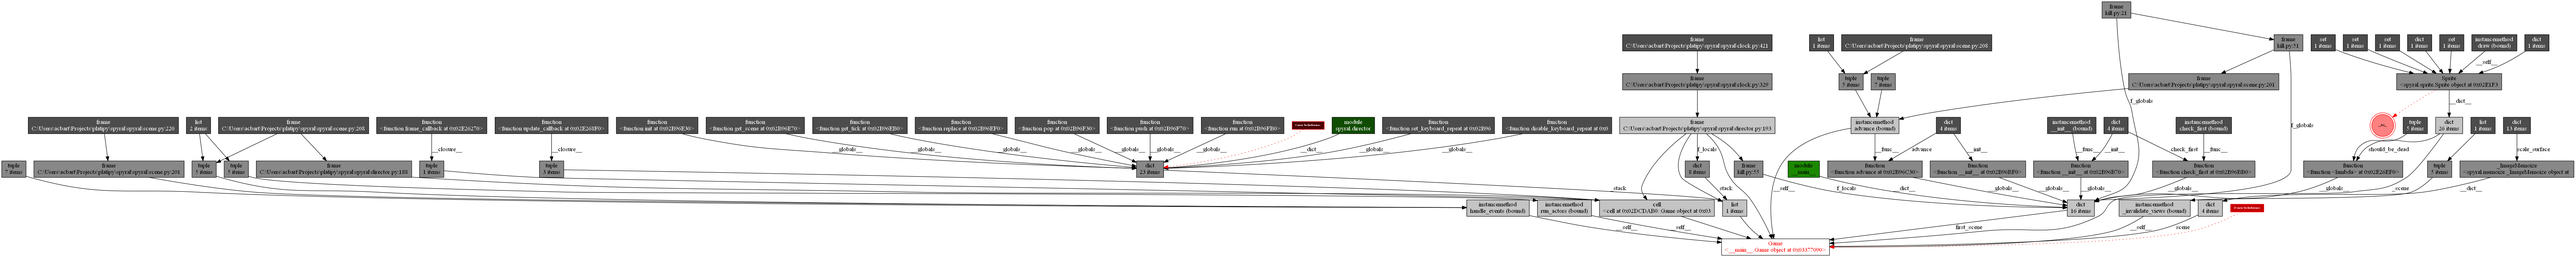
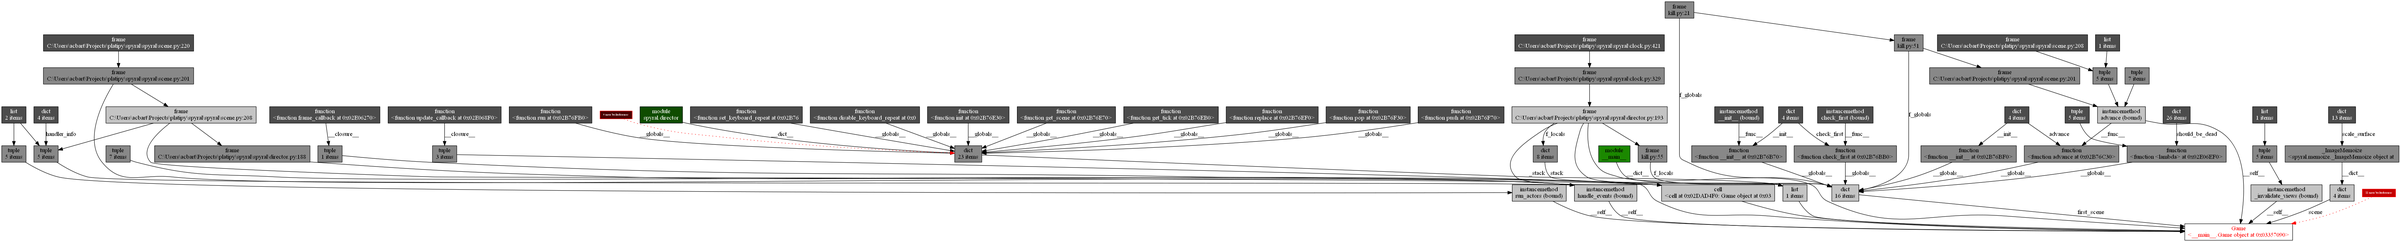
Sprites and Views no longer hold strong refs to their parents.

diff --git a/spyral/sprite.py b/spyral/sprite.py
@@ -78,8 +78,8 @@ class Sprite(object):
         self._offset = spyral.Vec2D(0, 0)
         self._scale = spyral.Vec2D(1.0, 1.0)
         self._scaled_image = None
-        self._view = (view)
-        self._scene = (view.scene)
+        self._view = _wref(view)
+        self._scene = _wref(view.scene)
         self._angle = 0
         self._crop = None
         self._transform_image = None
@@ -92,9 +92,9 @@ class Sprite(object):
         
         view._add_child(self)
 
-        self._scene._register_sprite(self)
-        self._scene.apply_style(self)
-        self._scene.register('director.render', self.draw)
+        self._scene()._register_sprite(self)
+        self._scene().apply_style(self)
+        self._scene().register('director.render', self.draw)
 
     def _set_static(self):
         self._make_static = True
@@ -104,7 +104,7 @@ class Sprite(object):
         # Expire static is part of the private API which must
         # be implemented by Sprites that wish to be static.
         if self._static:
-            self._scene._remove_static_blit(self)
+            self._scene()._remove_static_blit(self)
         self._static = False
         self._age = 0
         self._set_collision_box()
@@ -210,7 +210,7 @@ class Sprite(object):
         if layer == self._layer:
             return
         self._layer = layer
-        self._computed_layer = self._scene._get_layer_position(self._view, layer)
+        self._computed_layer = self._scene()._get_layer_position(self._view(), layer)
         self._expire_static()
 
     def _get_image(self):
@@ -332,9 +332,9 @@ class Sprite(object):
         self._expire_static()
     
     def _get_scene(self):
-        return self._scene
+        return self._scene()
     def _get_view(self):
-        return self._view
+        return self._view()
 
     #: Determines where this Sprite is drawn in the Scene (or View).
     position = property(_get_pos, _set_pos)
@@ -392,9 +392,9 @@ class Sprite(object):
             b.static = True
             self._make_static = False
             self._static = True
-            self._view._static_blit(self, b)
+            self._view()._static_blit(self, b)
             return
-        self._view._blit(b)
+        self._view()._blit(b)
         self._age += 1
     
     def _set_collision_box(self):
@@ -405,17 +405,17 @@ class Sprite(object):
         else:
             area = self._mask
         c = spyral.util._CollisionBox(self._pos - self._offset, area)
-        warped_box = self._view._warp_collision_box(c)
-        self._scene._set_collision_box(self, warped_box.rect)
+        warped_box = self._view()._warp_collision_box(c)
+        self._scene()._set_collision_box(self, warped_box.rect)
 
     def kill(self):
-        self._scene.unregister("director.render", self.draw)
-        self._scene._unregister_sprite(self)
-        self._scene._remove_static_blit(self)
-        self._view.remove_child(self)
+        self._scene().unregister("director.render", self.draw)
+        self._scene()._unregister_sprite(self)
+        self._scene()._remove_static_blit(self)
+        self._view().remove_child(self)
 
     def __del__(self):
-        self._scene._remove_static_blit(self)
+        self._scene()._remove_static_blit(self)
         
     def animate(self, animation):
         """
@@ -426,7 +426,7 @@ class Sprite(object):
                 raise ValueError(
                     "Cannot animate on propety %s twice" % animation.property)
         if len(self._animations) == 0:
-            self._scene.register('director.update',
+            self._scene().register('director.update',
                                  self._run_animations,
                                  ('dt', ))
         self._animations.append(animation)
@@ -443,7 +443,7 @@ class Sprite(object):
             self._animations.remove(animation)
             del self._progress[animation]
             if len(self._animations) == 0:
-                self._scene.unregister('director.update', self._run_animations)
+                self._scene().unregister('director.update', self._run_animations)
                 e = spyral.Event(animation=animation, sprite=self)
                 spyral.event.handle("sprites.%s.animation.end", e)
 
@@ -456,9 +456,9 @@ class Sprite(object):
             self.stop_animation(animation)
 
     def collide_sprite(self, other):
-        return self.scene.collide_sprite(self, other)
+        return self._scene().collide_sprite(self, other)
     def collide_point(self, pos):
-        return self.scene.collide_point(self, pos)
+        return self._scene().collide_point(self, pos)
     def collide_rect(self, rect):
-        return self.scene.collide_rect(self, rect)
+        return self._scene().collide_rect(self, rect)
         

diff --git a/spyral/view.py b/spyral/view.py
@@ -44,7 +44,7 @@ class View(object):
         self._pos = spyral.Vec2D(0,0)
         self._crop = False
         self._visible = True
-        self._parent = (parent)
+        self._parent = _wref(parent)
         self._anchor = 'topleft'
         self._offset = spyral.Vec2D(0,0)
         self._layers = []
@@ -53,10 +53,10 @@ class View(object):
 
         self._children = set()
         self._child_views = set()
-        self._scene  = (parent.scene)
-        self._scene._add_view(self)
-        self._parent._add_child(self)
-        self._scene.apply_style(self)
+        self._scene = _wref(parent.scene)
+        self._scene()._add_view(self)
+        self._parent()._add_child(self)
+        self._scene().apply_style(self)
         
     def _add_child(self, entity):
         """
@@ -87,9 +87,7 @@ class View(object):
             child.kill()
         self._children.clear()
         self._child_views.clear()
-        self.scene._kill_view(self)
-        self._parent = None
-        self._scene = None
+        self._scene()._kill_view(self)
         
     def _get_mask(self):
         return self._mask
@@ -134,7 +132,7 @@ class View(object):
         if layer == self._layer:
             return
         self._layer = layer
-        self.scene._set_view_layer(self, layer)
+        self._scene()._set_view_layer(self, layer)
         self._changed()
         
     def _compute_layer(self, layer):
@@ -149,7 +147,7 @@ class View(object):
     def _set_layers(self, layers):
         if not self._layers:
             self._layers = layers[:]
-            self.scene._set_view_layers(self, layers)
+            self._scene()._set_view_layers(self, layers)
         elif self._layers == layers:
             pass
         else:
@@ -283,9 +281,9 @@ class View(object):
         
     
     def _get_parent(self):
-        return self._parent
+        return self._parent()
     def _get_scene(self):
-        return self._scene
+        return self._scene()
         
     def _get_rect(self):
         return spyral.Rect(self._pos, self.size)
@@ -335,7 +333,7 @@ class View(object):
             blit.apply_scale(self.scale)
             if self.crop:
                 blit.clip(spyral.Rect((0, 0), self.crop_size))
-            self._parent._blit(blit)
+            self._parent()._blit(blit)
         
     def _static_blit(self, key, blit):
         if self.visible:
@@ -343,14 +341,14 @@ class View(object):
             blit.apply_scale(self.scale)
             if self.crop:
                 blit.clip(spyral.Rect((0, 0), self.crop_size))
-            self._parent._static_blit(key, blit)
+            self._parent()._static_blit(key, blit)
     
     def _warp_collision_box(self, box):
         box.position += self.position
         box.apply_scale(self.scale)
         if self.crop:
             box.clip(spyral.Rect((0, 0), self.crop_size))
-        return self._parent._warp_collision_box(box)
+        return self._parent()._warp_collision_box(box)
     
     def _set_collision_box(self):
         if self._mask is not None:
@@ -360,8 +358,8 @@ class View(object):
             pos = self._pos - self._offset
             area = spyral.Rect((0,0), self.size)
         c = spyral.util._CollisionBox(pos, area)
-        warped_box = self._parent._warp_collision_box(c)
-        self._scene._set_collision_box(self, warped_box.rect)
+        warped_box = self._parent()._warp_collision_box(c)
+        self._scene()._set_collision_box(self, warped_box.rect)
             
     def __stylize__(self, properties):
         simple = ['pos', 'x', 'y', 'position', 
@@ -378,8 +376,8 @@ class View(object):
             spyral.exceptions.unused_style_warning(self, properties.iterkeys())
 
     def collide_sprite(self, other):
-        return self._scene.collide_sprite(self, other)
+        return self._scene().collide_sprite(self, other)
     def collide_point(self, pos):
-        return self._scene.collide_point(self, pos)
+        return self._scene().collide_point(self, pos)
     def collide_rect(self, rect):
-        return self._scene.collide_rect(self, rect)
+        return self._scene().collide_rect(self, rect)

diff --git a/spyral/layertree.py b/spyral/layertree.py
@@ -48,7 +48,7 @@ class LayerTree(object):
         :param view: the new View to add
         :type view: View (not a weakref)
         """
-        parent = _wref(view._parent)
+        parent = view._parent
         view = _wref(view)
         self.layers[view] = []
         self.child_views[view] = []
@@ -57,7 +57,7 @@ class LayerTree(object):
         if len(self.child_views[parent]) == 1:
             self.tree_height[parent] += 1
             while parent != self.scene:
-                parent = _wref(parent()._parent)
+                parent = parent()._parent
                 self.tree_height[parent] += 1
         self._precompute_positions()
         

diff --git a/spyral/scene.py b/spyral/scene.py
@@ -441,7 +441,7 @@ class Scene(object):
         """
         self._sprites.add(sprite)
         # Add the view and its parents to the invalidating_views for the sprite
-        parent_view = sprite._view
+        parent_view = sprite._view()
         while parent_view != self:
             if parent_view not in self._invalidating_views:
                 self._invalidating_views[parent_view] = set()
